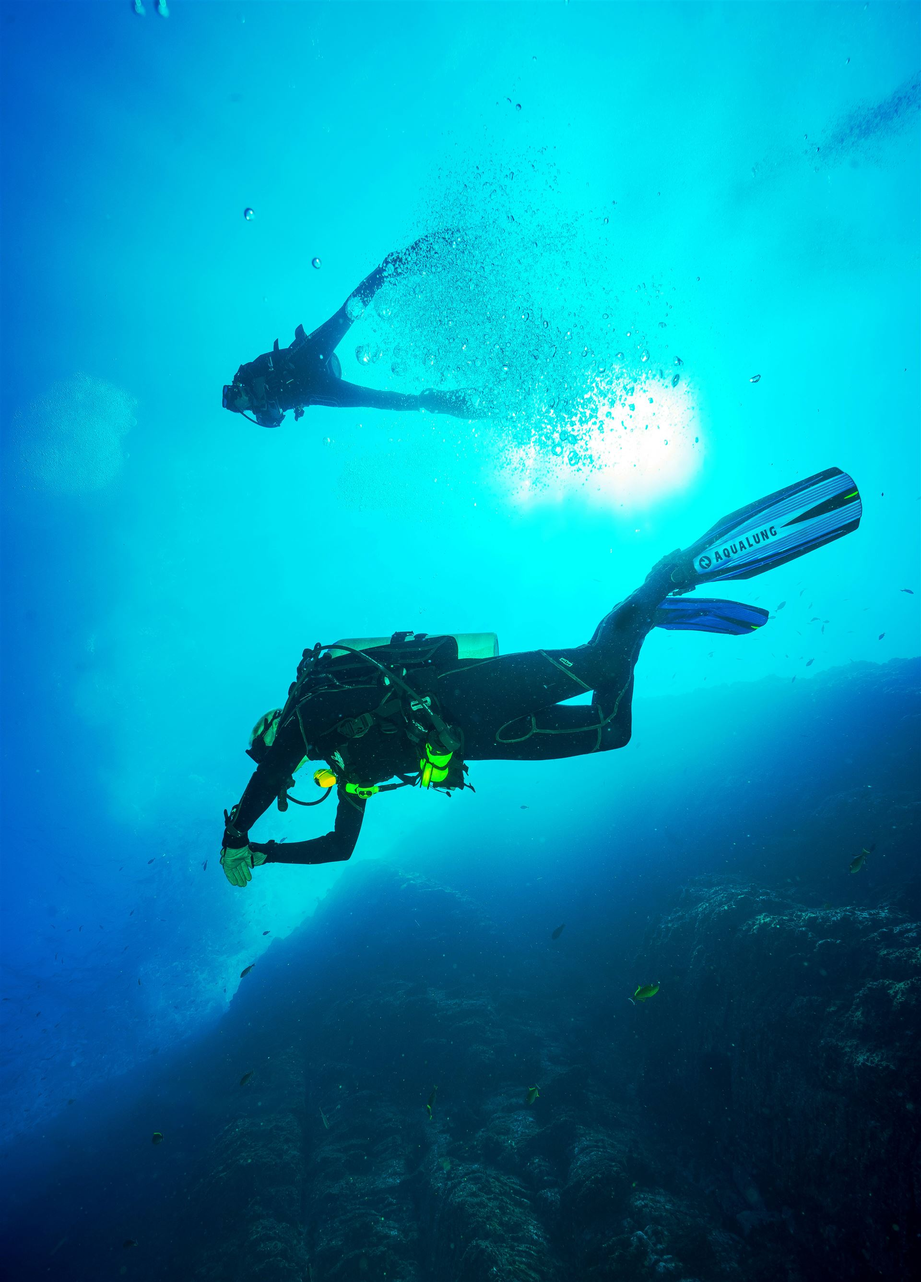
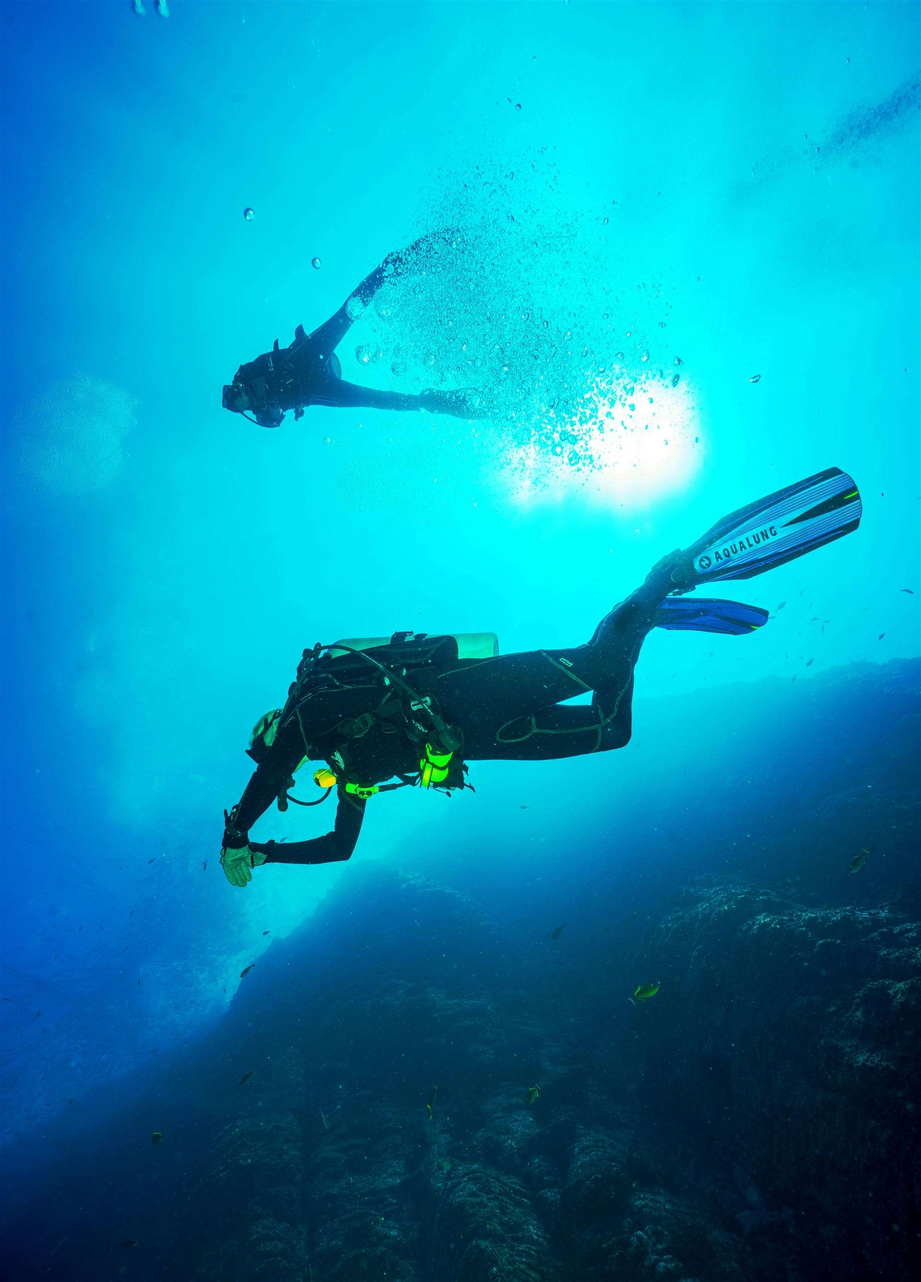
Defer heavy initialization until after first paint
Move heavy DOM creation and setup into a second phase using requestAnimationFrame to avoid blocking first paint. diveComputer.init() and several initializers (initDiveTips, initCookieBanner, initPermanentRecord, initConditionsReport) are deferred; lightweight event-listener-only initializers (e.g. initCertGenerator, initRiskTool, initCertVerification, initLostCard, initInsuranceModals, initComplaints) run immediately. Also remove a console parody warning message. Binary image images/dtCTfjTEOgg.jpg was updated.

diff --git a/scripts.js b/scripts.js
@@ -1441,24 +1441,13 @@
     // ============================================================
     function init() {
         console.log('%c🤿 PODI Scripts Loaded', 'color: #ff6600; font-size: 16px; font-weight: bold');
-        console.log('%c⚠ This website is a parody. Any functioning code is purely accidental.', 'color: #ff4444;');
 
-        // Only init dive computer on pages with significant scrolling
-        var currentPage = window.location.pathname.split('/').pop() || 'index.html';
-        var pagesWithComputer = ['index.html', 'courses.html', 'technical.html', 'charter.html', 'gallery.html', 'shop.html'];
-        if (pagesWithComputer.indexOf(currentPage) !== -1 && !document.getElementById('podi-computer')) {
-            diveComputer.init();
-        }
-
-        initDiveTips();
+        // Phase 1: Lightweight — event listeners only (runs before paint)
         initCertGenerator();
         initRiskTool();
-        initCookieBanner();
         initCertVerification();
-        initPermanentRecord();
         initLostCard();
         initInsuranceModals();
-        initConditionsReport();
         initComplaints();
 
         // Event delegation for shop
@@ -1523,6 +1512,20 @@
         if (elearningBtn) {
             elearningBtn.addEventListener('click', startELearning);
         }
+
+        // Phase 2: Heavy work — defer DOM creation to after first paint
+        requestAnimationFrame(function() {
+            var currentPage = window.location.pathname.split('/').pop() || 'index.html';
+            var pagesWithComputer = ['index.html', 'courses.html', 'technical.html', 'charter.html', 'gallery.html', 'shop.html'];
+            if (pagesWithComputer.indexOf(currentPage) !== -1 && !document.getElementById('podi-computer')) {
+                diveComputer.init();
+            }
+
+            initDiveTips();
+            initCookieBanner();
+            initPermanentRecord();
+            initConditionsReport();
+        });
     }
 
     if (document.readyState === 'loading') {
